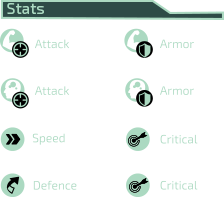
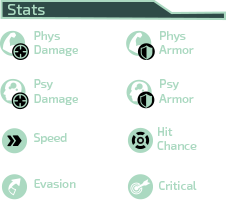
update attributes when buy an equipment

diff --git a/game/src/equip.cpp b/game/src/equip.cpp
@@ -536,8 +536,84 @@ Equip::buy_equipment(ObjectID equipment)
     Colony(m_slot).set_matter(Colony(m_slot).matter() - m_matter_cost);
     Colony(m_slot).set_energy(Colony(m_slot).energy() - m_energy_cost);
 
+    m_char = m_barracks->current_char();
+    for (auto icon : m_attributes)
+    {
+        string value = get_equipment(m_equipment, icon.first);
+        if (value.substr(1) == "0")
+        {
+            continue;
+        }
+
+        if (icon.first == "agility")
+        {
+            int new_value = calculate_attribute(m_char->agility(), value);
+            m_char->set_agility(new_value);
+        }
+        else if (icon.first == "critical")
+        {
+            int new_value = calculate_attribute(m_char->critical(), value);
+            m_char->set_critical(new_value);
+        }
+        else if (icon.first == "hit_chance")
+        {
+            int new_value = calculate_attribute(m_char->hit_chance(), value);
+            m_char->set_hit_chance(new_value);
+        }
+        else if (icon.first == "might")
+        {
+            int new_value = calculate_attribute(m_char->might(), value);
+            m_char->set_might(new_value);
+        }
+        else if (icon.first == "mind")
+        {
+            int new_value = calculate_attribute(m_char->mind(), value);
+            m_char->set_mind(new_value);
+        }
+        else if (icon.first == "perception")
+        {
+            int new_value = calculate_attribute(m_char->perception(), value);
+            m_char->set_perception(new_value);
+        }
+        else if (icon.first == "resilience")
+        {
+            int new_value = calculate_attribute(m_char->resilience(), value);
+            m_char->set_resilience(new_value);
+        }
+        else if (icon.first == "speed")
+        {
+            int new_value = calculate_attribute(m_char->cooldown(), value);
+            m_char->set_cooldown(new_value);
+        }
+        else if (icon.first == "willpower")
+        {
+            int new_value = calculate_attribute(m_char->willpower(), value);
+            m_char->set_willpower(new_value);
+        }
+    }
+
     m_settings->write<int>(equipment, m_barracks->current_char()->id(), 1);
     m_settings->save("res/datas/slot" + to_string(m_slot) + "/equipments.sav");
+}
+
+int
+Equip::calculate_attribute(int get, const string& value)
+{
+    int val = atoi(value.substr(1).c_str());
+    if (value.front() == '+')
+    {
+        return get + val;
+    }
+    else if (value.front() == '-')
+    {
+        return get - val;
+    }
+    else if (value.front() == '%')
+    {
+        return get * (1 + val/100.0);
+    }
+
+    return 0;
 }
 
 void

diff --git a/game/src/character.cpp b/game/src/character.cpp
@@ -96,6 +96,7 @@ Character::init()
     set_defense(m_resilience);
     set_cooldown((m_agility + m_perception) / 2);
     set_critical(m_agility/4);
+    set_hit_chance(m_perception / 2);
     m_defense_mode = false;
     m_available = m_settings->read<bool>(m_name, "available", true);
     set_available(m_available);
@@ -116,14 +117,8 @@ Character::draw_self()
 
     if (m_type == HERO)
     {
-        if (m_style == SMALL)
-        {
-            env->canvas->draw(m_bracket_small.get(), x(), y());
-        }
-        else
-        {
+        m_style == SMALL ? env->canvas->draw(m_bracket_small.get(), x(), y()) :
             env->canvas->draw(m_bracket_big.get(), x(), y());
-        }
         
         draw_attributes();
     }
@@ -517,6 +512,12 @@ Character::critical() const
     return m_critical;
 }
 
+int
+Character::hit_chance() const
+{
+    return m_hit_chance;
+}
+
 bool
 Character::available() const
 {
@@ -723,6 +724,13 @@ Character::set_available(bool available)
 {
     m_available = available;
     write<bool>("available", available);
+}
+
+void
+Character::set_hit_chance(int hit_chance)
+{
+    m_hit_chance = hit_chance;
+    write<int>("hit_chance", hit_chance);
 }
 
 void

diff --git a/game/include/character.h b/game/include/character.h
@@ -56,6 +56,7 @@ public:
     int might_armor() const;
     int mind_armor() const;
     int critical() const;
+    int hit_chance() const;
     bool available() const;
 
     void set_texture(const string& id);
@@ -86,6 +87,8 @@ public:
     void set_might_armor(int might_armor);
     void set_mind_armor(int mind_armor);
     void set_critical(int critical);
+    void set_hit_chance(int hit_chance);
+
     void set_defense_mode(bool defense_mode);
     void set_mpt_mode(bool mpt_mode);
     void set_available(bool available);
@@ -131,6 +134,7 @@ private:
     int m_might_armor;
     int m_mind_armor;
     int m_critical;
+    int m_hit_chance;
     bool m_defense_mode;
     bool m_available;
 

diff --git a/game/src/barracks.cpp b/game/src/barracks.cpp
@@ -220,7 +220,7 @@ Barracks::draw_attributes()
     x = 900 * scale_w;
     env->canvas->draw(to_string(character->might_armor()), x, 125 * scale_h, color);
     env->canvas->draw(to_string(character->mind_armor()), x, 172 * scale_h, color);
-    env->canvas->draw(to_string(character->critical()), x, 219 * scale_h, color);
+    env->canvas->draw(to_string(character->hit_chance()), x, 219 * scale_h, color);
     env->canvas->draw(to_string(character->critical()), x, 266 * scale_h, color);
 }
 

diff --git a/game/src/tower.cpp b/game/src/tower.cpp
@@ -237,11 +237,6 @@ Tower::on_message(Object *sender, MessageID id, Parameters)
         set_next(id);
         finish();
     }
-    // else if (button->id() == "inspect_drone")
-    // {
-    //     set_next("drone");
-    //     finish();
-    // }
     else if (button->id() == "inspect_team")
     {
         shared_ptr<Settings> settings = env->resources_manager->get_settings("res/datas/slot" +

diff --git a/game/include/equip.h b/game/include/equip.h
@@ -57,6 +57,7 @@ private:
     bool on_message(Object *sender, MessageID id, Parameters p);
     void deactivate_equipments();
     void buy_equipment(ObjectID equipment);
+    int calculate_attribute(int get, const string& value);
     void change_buttons();
     void change_buttons(bool visible);
 };
